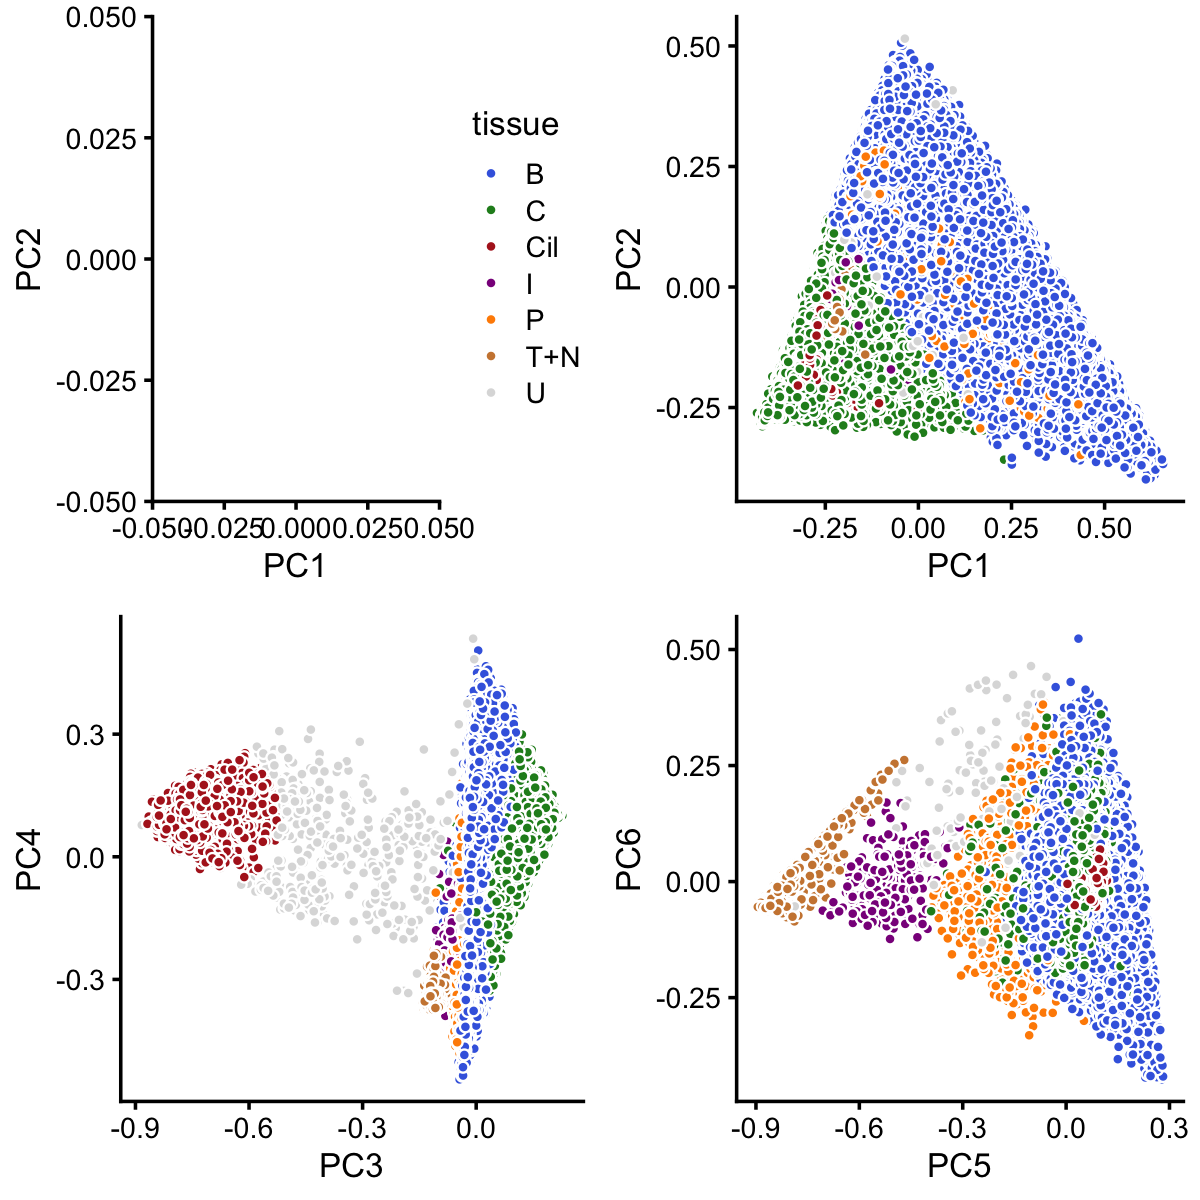
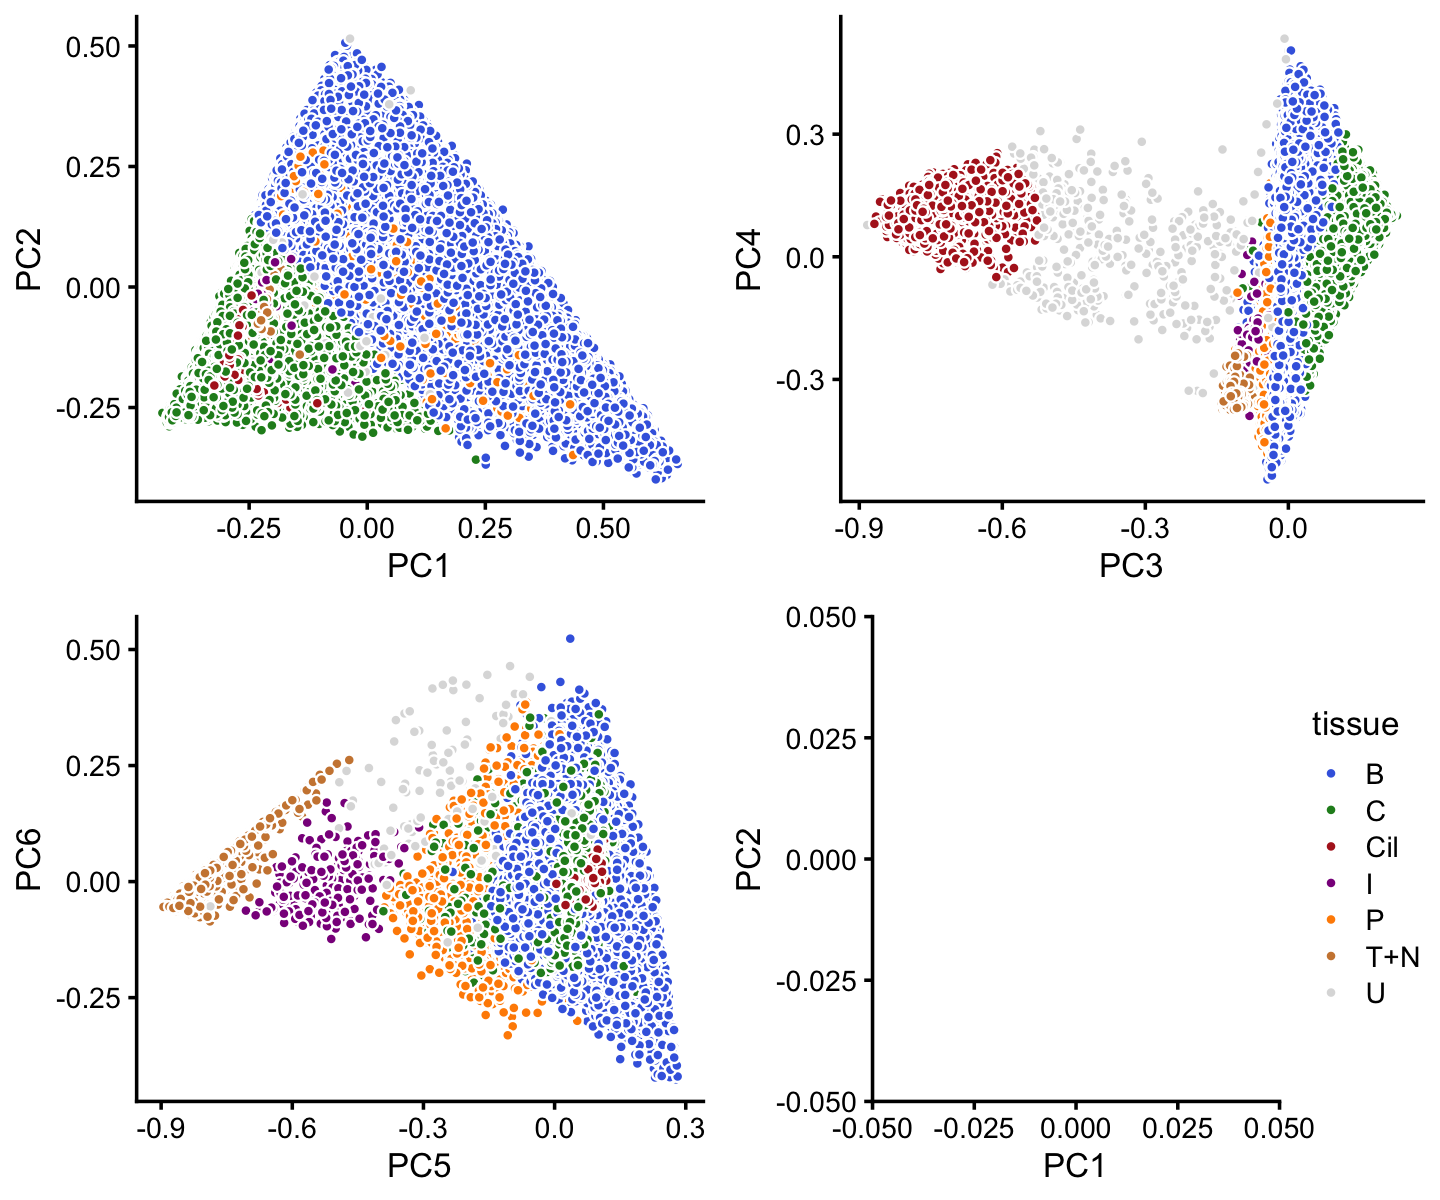
Refined clustering of pulseseq data.

diff --git a/docs/clusters_pulseseq.html b/docs/clusters_pulseseq.html
@@ -323,7 +323,7 @@ $(document).ready(function () {
 <div class="tab-content">
 <div id="summary" class="tab-pane fade in active">
 <p>
-<strong>Last updated:</strong> 2020-09-16
+<strong>Last updated:</strong> 2020-09-18
 </p>
 <p>
 <strong>Checks:</strong> <span class="glyphicon glyphicon-ok text-success" aria-hidden="true"></span> 7 <span class="glyphicon glyphicon-exclamation-sign text-danger" aria-hidden="true"></span> 0
@@ -414,16 +414,16 @@ This reproducible <a href="http://rmarkdown.rstudio.com">R Markdown</a> analysis
 <div class="panel panel-default">
 <div class="panel-heading">
 <p class="panel-title">
-<a data-toggle="collapse" data-parent="#workflowr-checks" href="#strongRepositoryversionstrongahrefhttpsgithubcomstephenslabsinglecelltopicstreed2cb6029d0ec1f0bb7bb5bbed427fb9fe5b6ab21targetblankd2cb602a"> <span class="glyphicon glyphicon-ok text-success" aria-hidden="true"></span> <strong>Repository version:</strong> <a href="https://github.com/stephenslab/single-cell-topics/tree/d2cb6029d0ec1f0bb7bb5bbed427fb9fe5b6ab21" target="_blank">d2cb602</a> </a>
+<a data-toggle="collapse" data-parent="#workflowr-checks" href="#strongRepositoryversionstrongahrefhttpsgithubcomstephenslabsinglecelltopicstreeded741c00a8bc27526a768bb120f9fa72ab11c1ftargetblankded741ca"> <span class="glyphicon glyphicon-ok text-success" aria-hidden="true"></span> <strong>Repository version:</strong> <a href="https://github.com/stephenslab/single-cell-topics/tree/ded741c00a8bc27526a768bb120f9fa72ab11c1f" target="_blank">ded741c</a> </a>
 </p>
 </div>
[2 lines of base64/hex data omitted]
 <div class="panel-body">
 <p>
 Great! You are using Git for version control. Tracking code development and connecting the code version to the results is critical for reproducibility.
 </p>
 <p>
-The results in this page were generated with repository version <a href="https://github.com/stephenslab/single-cell-topics/tree/d2cb6029d0ec1f0bb7bb5bbed427fb9fe5b6ab21" target="_blank">d2cb602</a>. See the <em>Past versions</em> tab to see a history of the changes made to the R Markdown and HTML files.
+The results in this page were generated with repository version <a href="https://github.com/stephenslab/single-cell-topics/tree/ded741c00a8bc27526a768bb120f9fa72ab11c1f" target="_blank">ded741c</a>. See the <em>Past versions</em> tab to see a history of the changes made to the R Markdown and HTML files.
 </p>
 <p>
 Note that you need to be careful to ensure that all relevant files for the analysis have been committed to Git prior to generating the results (you can use <code>wflow_publish</code> or <code>wflow_git_commit</code>). workflowr only checks the R Markdown file, but you know if there are other scripts or data files that it depends on. Below is the status of the Git repository when the results were generated:
@@ -483,6 +483,40 @@ Message
 </tr>
 </thead>
 <tbody>
+<tr>
+<td>
+Rmd
+</td>
+<td>
+<a href="https://github.com/stephenslab/single-cell-topics/blob/ded741c00a8bc27526a768bb120f9fa72ab11c1f/analysis/clusters_pulseseq.Rmd" target="_blank">ded741c</a>
+</td>
+<td>
+Peter Carbonetto
+</td>
+<td>
+2020-09-18
+</td>
+<td>
+workflowr::wflow_publish(“clusters_pulseseq.Rmd”)
+</td>
+</tr>
+<tr>
+<td>
+html
+</td>
+<td>
+<a href="https://rawcdn.githack.com/stephenslab/single-cell-topics/4b4b233a3e65d68dc2710d8d3ec618dfb84cb886/docs/clusters_pulseseq.html" target="_blank">4b4b233</a>
+</td>
+<td>
+Peter Carbonetto
+</td>
+<td>
+2020-09-18
+</td>
+<td>
+Make some improvements to clusters_pulseseq analysis.
+</td>
+</tr>
 <tr>
 <td>
 Rmd
@@ -660,7 +694,7 @@ Implemented basic_pca_plot; improved labeled_pca_plot function.
 </div>
 </div>
 </div>
-<p><em>Briefly explain the aims of this analysis, and what we find.</em></p>
+<p>Here we perform PCA on the topic proportions to identify clusters in the pulse-seq data.</p>
 <p>Load the packages used in the analysis below, as well as additional functions that we will use to generate some of the plots.</p>
 <pre class="r"><code>library(dplyr)
 library(fastTopics)
@@ -682,13 +716,12 @@ rm(counts)</code></pre>
 </div>
 <div id="identify-clusters-from-principal-components" class="section level2">
 <h2>Identify clusters from principal components</h2>
-<p><em>Explain the process used to identify clusters.</em></p>
-<p>Show the PCA projection of the cells. Note that only 10 PCs are needed for 11 topics.</p>
-<pre class="r"><code>p1 &lt;- basic_pca_plot(poisson2multinom(fit),1:2)
-p2 &lt;- basic_pca_plot(poisson2multinom(fit),3:4)
-p3 &lt;- basic_pca_plot(poisson2multinom(fit),5:6)
-p4 &lt;- basic_pca_plot(poisson2multinom(fit),7:8)
-p5 &lt;- basic_pca_plot(poisson2multinom(fit),9:10)
+<p>To identify clusters, we begin by plotting PCs computed from the rows of the topic proportions matrix. (Note that only 10 PCs are needed for the multinomial topic model with <span class="math inline">\(k = 11\)</span> topics.)</p>
+<pre class="r"><code>p1 &lt;- basic_pca_plot(fit,1:2)
+p2 &lt;- basic_pca_plot(fit,3:4)
+p3 &lt;- basic_pca_plot(fit,5:6)
+p4 &lt;- basic_pca_plot(fit,7:8)
+p5 &lt;- basic_pca_plot(fit,9:10)
 plot_grid(p1,p2,p3,p4,p5,nrow = 2,ncol = 3)</code></pre>
 <p><img src="figure/clusters_pulseseq.Rmd/clustering-1-1.png" width="960" style="display: block; margin: auto;" /></p>
 <p>
@@ -728,12 +761,12 @@ Peter Carbonetto
 </table>
 </div>
 </div>
-<p>These next plots show the <em>density</em> of the points in the PCA projection.</p>
-<pre class="r"><code>p6 &lt;- pca_hexbin_plot(poisson2multinom(fit),1:2) + guides(fill = &quot;none&quot;)
-p7 &lt;- pca_hexbin_plot(poisson2multinom(fit),3:4) + guides(fill = &quot;none&quot;)
-p8 &lt;- pca_hexbin_plot(poisson2multinom(fit),5:6) + guides(fill = &quot;none&quot;)
-p9 &lt;- pca_hexbin_plot(poisson2multinom(fit),7:8) + guides(fill = &quot;none&quot;)
-p10 &lt;- pca_hexbin_plot(poisson2multinom(fit),9:10) + guides(fill = &quot;none&quot;)
+<p>Structure is more evident from the following “hexbin” plots showing the <em>density</em> of the points in the PCA projection. For example, the two clusters in PCs 1 and 2 is not evident from the scatterplot, but emerges in the hexbin plots:</p>
+<pre class="r"><code>p6  &lt;- pca_hexbin_plot(fit,1:2) + guides(fill = &quot;none&quot;)
+p7  &lt;- pca_hexbin_plot(fit,3:4) + guides(fill = &quot;none&quot;)
+p8  &lt;- pca_hexbin_plot(fit,5:6) + guides(fill = &quot;none&quot;)
+p9  &lt;- pca_hexbin_plot(fit,7:8) + guides(fill = &quot;none&quot;)
+p10 &lt;- pca_hexbin_plot(fit,9:10) + guides(fill = &quot;none&quot;)
 plot_grid(p6,p7,p8,p9,p10,nrow = 2,ncol = 3)</code></pre>
 <p><img src="figure/clusters_pulseseq.Rmd/clustering-2-1.png" width="960" style="display: block; margin: auto;" /></p>
 <p>
@@ -773,7 +806,7 @@ Peter Carbonetto
 </table>
 </div>
 </div>
-<p>Identify clusters from PC plots above.</p>
+<p>From the PC plots above, we define 4 clusters, labeled A, C, Cil and T+N. (The reason for these labels will become more clear later on.) Points that do not fit in any of these clusters are assigned to a “background cluster” (this subset is labeled U for “Unknown”).</p>
 <pre class="r"><code>pca &lt;- prcomp(poisson2multinom(fit)$L)$x
 x   &lt;- rep(&quot;U&quot;,nrow(pca))
 pc3 &lt;- pca[,3]
@@ -784,7 +817,7 @@ x[pc4 &lt; 5.5*pc3 + 0.5] &lt;- &quot;A&quot;
 x[(pc3 + 0.7)^2 + (pc4 - 0.1)^2 &lt; 0.18^2] &lt;- &quot;Cil&quot;
 x[x == &quot;A&quot; &amp; pc6 &gt; 1.3*pc5 + 0.87] &lt;- &quot;T+N&quot;
 x[x == &quot;A&quot; &amp; pc5 &gt; -0.4 &amp; pc6 &lt; 1.3*pc5 + 0.49] &lt;- &quot;C&quot;</code></pre>
-<p>PCA plot for cluster A:</p>
+<p>We can refine cluster A somewhat by plotting PCs computed from the samples in cluster A <em>only</em>:</p>
 <pre class="r"><code>rows &lt;- which(x == &quot;A&quot;)
 fit2 &lt;- select(poisson2multinom(fit),loadings = rows)
 p11  &lt;- basic_pca_plot(fit2,1:2)
@@ -827,17 +860,17 @@ Peter Carbonetto
 </table>
 </div>
 </div>
-<p>Subclustering of cluster A:</p>
+<p>We label this refined cluster as “I”, and the rest are added to the background cluster (U).</p>
 <pre class="r"><code>pca  &lt;- prcomp(fit2$L)$x
 y    &lt;- rep(&quot;U&quot;,nrow(pca))
 pc1  &lt;- pca[,1]
 y[pc1 &gt; -0.1] &lt;- &quot;I&quot;
 x[rows] &lt;- y</code></pre>
-<p>PCA plot for cluster C:</p>
+<p>Likewise, we inspect cluster C for further structure:</p>
 <pre class="r"><code>rows &lt;- which(x == &quot;C&quot;)
 fit2 &lt;- select(poisson2multinom(fit),loadings = rows)
 p12  &lt;- basic_pca_plot(fit2,1:2)
-p13  &lt;- pca_hexbin_plot(fit2,1:2)
+p13  &lt;- pca_hexbin_plot(fit2,1:2) + guides(fill = &quot;none&quot;)
 plot_grid(p12,p13)</code></pre>
 <p><img src="figure/clusters_pulseseq.Rmd/clustering-6-1.png" width="720" style="display: block; margin: auto;" /></p>
 <p>
@@ -877,18 +910,18 @@ Peter Carbonetto
 </table>
 </div>
 </div>
-<p>Clustering of cluster C:</p>
+<p>The hexbin plot suggests two clusters. Although these clusters are not distinct, it may nonetheless be useful to subdivide these points (somewhat arbitrarily) into two subsets, labeled B and C.</p>
 <pre class="r"><code>pca  &lt;- prcomp(fit2$L)$x
 y    &lt;- rep(&quot;C&quot;,nrow(pca))
 pc1  &lt;- pca[,1]
 pc2  &lt;- pca[,2]
 y[pc2 &gt; -pc1 - 0.15] &lt;- &quot;B&quot;
 x[rows] &lt;- y</code></pre>
-<p>PCA plot for cluster B:</p>
+<p>In cluster B, there is some interesting structure along PCs 5 and 6:</p>
 <pre class="r"><code>rows &lt;- which(x == &quot;B&quot;)
 fit2 &lt;- select(poisson2multinom(fit),loadings = rows)
 p14  &lt;- basic_pca_plot(fit2,5:6)
-p15  &lt;- pca_hexbin_plot(fit2,5:6)
+p15  &lt;- pca_hexbin_plot(fit2,5:6) + guides(fill = &quot;none&quot;)
 plot_grid(p14,p15)</code></pre>
 <p><img src="figure/clusters_pulseseq.Rmd/clustering-8-1.png" width="720" style="display: block; margin: auto;" /></p>
 <p>
@@ -928,24 +961,61 @@ Peter Carbonetto
 </table>
 </div>
 </div>
-<p>Clustering of cluster B:</p>
+<p>We define a new cluster, “P”, recognizing that this cluster is again not very distinct.</p>
 <pre class="r"><code>pca &lt;- prcomp(fit2$L)$x
 y   &lt;- rep(&quot;B&quot;,nrow(pca))
 pc5 &lt;- pca[,5]
 pc6 &lt;- pca[,6]
 y[pc5 &gt; 0.1 &amp; pc6 &lt; 0] &lt;- &quot;P&quot;
 x[rows] &lt;- y</code></pre>
-<p>In summary:</p>
+<p>In summary, we have subdivided the pulse-seq samples into 7 subsets, including a background cluster (“U”):</p>
 <pre class="r"><code>colors &lt;- c(&quot;royalblue&quot;,&quot;forestgreen&quot;,&quot;firebrick&quot;,&quot;darkmagenta&quot;,
             &quot;darkorange&quot;,&quot;peru&quot;,&quot;gainsboro&quot;)
-p16 &lt;- labeled_pca_plot(fit,1:2,x,colors,&quot;tissue&quot;) +
+p16 &lt;- labeled_pca_plot(fit,1:2,x,colors) + guides(fill = &quot;none&quot;)
+p17 &lt;- labeled_pca_plot(fit,3:4,x,colors) + guides(fill = &quot;none&quot;)
+p18 &lt;- labeled_pca_plot(fit,5:6,x,colors) + guides(fill = &quot;none&quot;)
+p19 &lt;- labeled_pca_plot(fit,1:2,x,colors,&quot;tissue&quot;) +
        xlim(0,0) + ylim(0,0)
-p17 &lt;- labeled_pca_plot(fit,1:2,x,colors) + guides(fill = &quot;none&quot;)
-p18 &lt;- labeled_pca_plot(fit,3:4,x,colors) + guides(fill = &quot;none&quot;)
-p19 &lt;- labeled_pca_plot(fit,5:6,x,colors) + guides(fill = &quot;none&quot;)
 plot_grid(p16,p17,p18,p19)</code></pre>
-<p><img src="figure/clusters_pulseseq.Rmd/clustering-10-1.png" width="600" style="display: block; margin: auto;" /></p>
-<p>Compare to Montoro et al (2018) clustering:</p>
+<p><img src="figure/clusters_pulseseq.Rmd/clustering-10-1.png" width="720" style="display: block; margin: auto;" /></p>
+<p>
+<button type="button" class="btn btn-default btn-xs btn-workflowr btn-workflowr-fig" data-toggle="collapse" data-target="#fig-clustering-10-1">
+Past versions of clustering-10-1.png
+</button>
+</p>
+<div id="fig-clustering-10-1" class="collapse">
+<div class="table-responsive">
+<table class="table table-condensed table-hover">
+<thead>
+<tr>
+<th>
+Version
+</th>
+<th>
+Author
+</th>
+<th>
+Date
+</th>
+</tr>
+</thead>
+<tbody>
+<tr>
+<td>
+<a href="https://github.com/stephenslab/single-cell-topics/blob/4b4b233a3e65d68dc2710d8d3ec618dfb84cb886/docs/figure/clusters_pulseseq.Rmd/clustering-10-1.png" target="_blank">4b4b233</a>
+</td>
+<td>
+Peter Carbonetto
+</td>
+<td>
+2020-09-18
+</td>
+</tr>
+</tbody>
+</table>
+</div>
+</div>
+<p>Comparing this to the Montoro <em>et al</em> (2018) clustering, we see that some close correspondence (e.g., B and basal cells, P and proliferating cells). The B and C clusters appear to contain additional structure that cannot be captured by distinct clusters. We will explore this structure in a subsequent analysis.</p>
 <pre class="r"><code>table(samples$tissue,x)
 #                 x
 #                      B     C   Cil     I     P   T+N     U
@@ -958,6 +1028,10 @@ plot_grid(p16,p17,p18,p19)</code></pre>
 #   neuroendocrine     0     1     0     7     0   619     3
 #   proliferating     61   194     9     4   914     0   231
 #   tuft               0    18     0    12     4   691     9</code></pre>
+</div>
+<div id="save-results" class="section level2">
+<h2>Save results</h2>
+<p><em>Add text here.</em></p>
 <br>
 <p>
 <button type="button" class="btn btn-default btn-workflowr btn-workflowr-sessioninfo" data-toggle="collapse" data-target="#workflowr-sessioninfo" style="display: block;">
